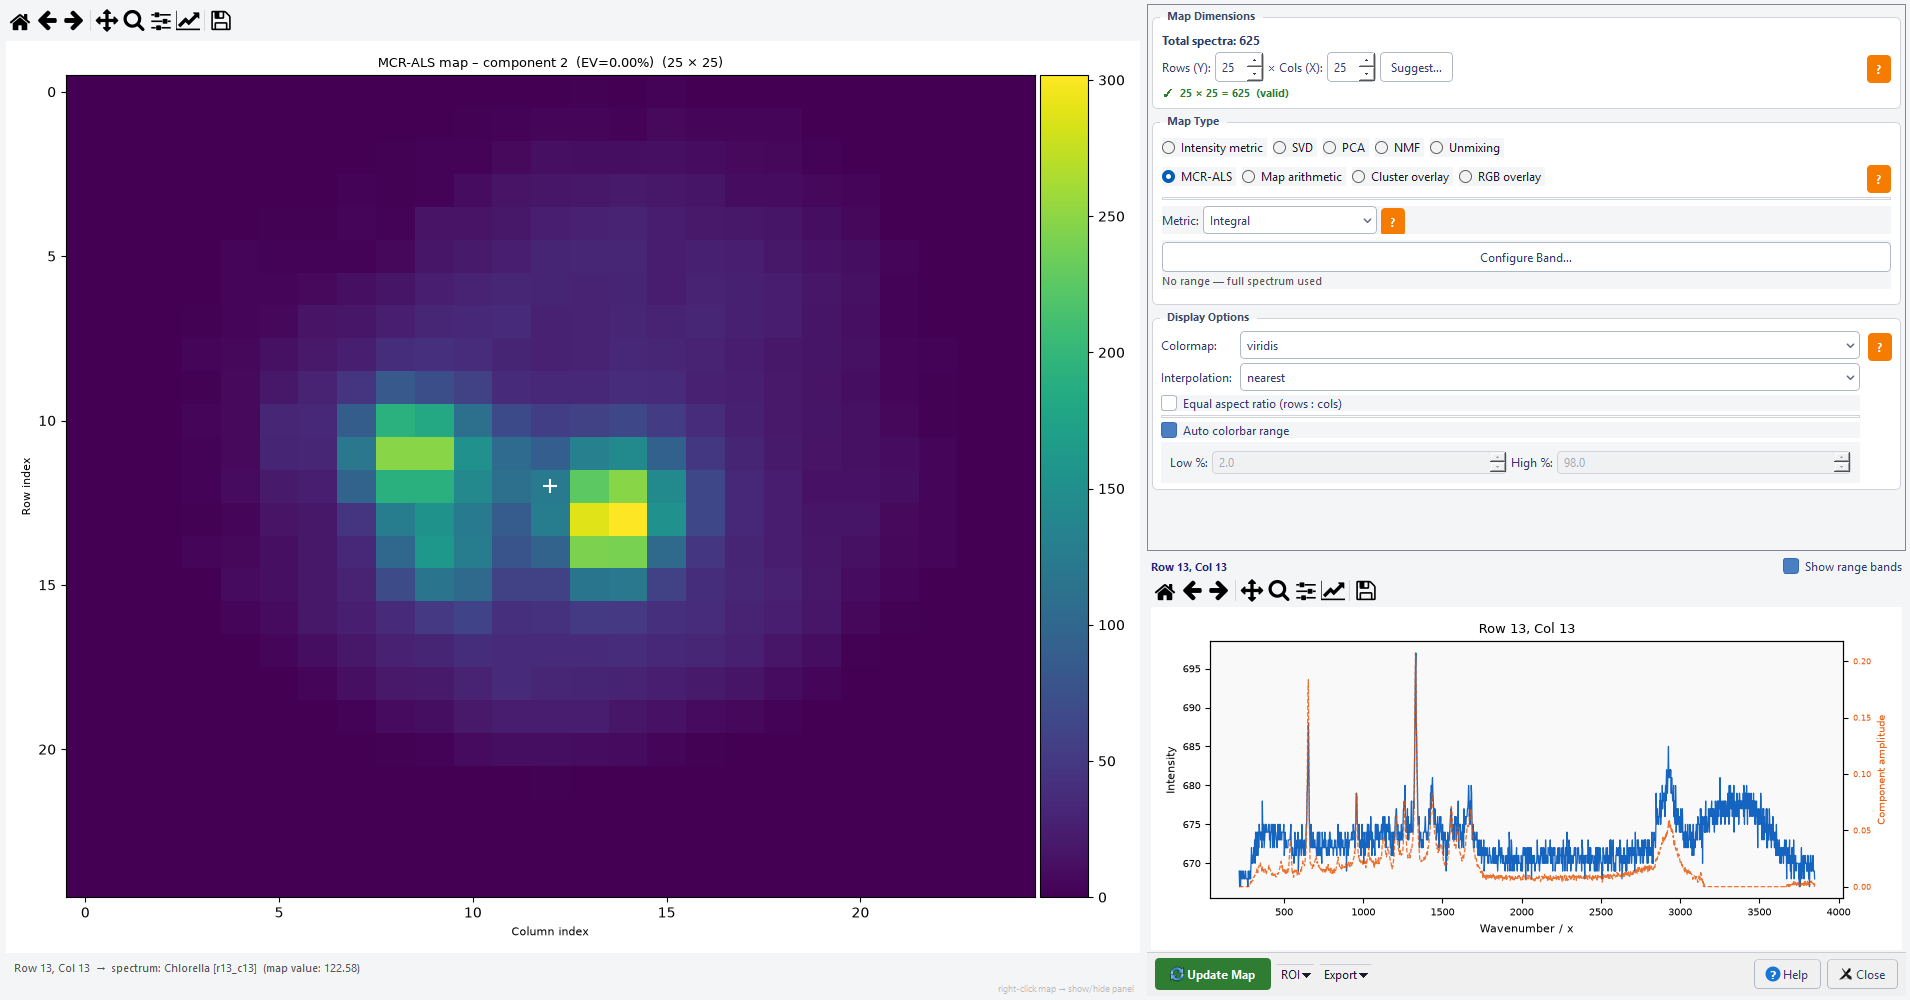
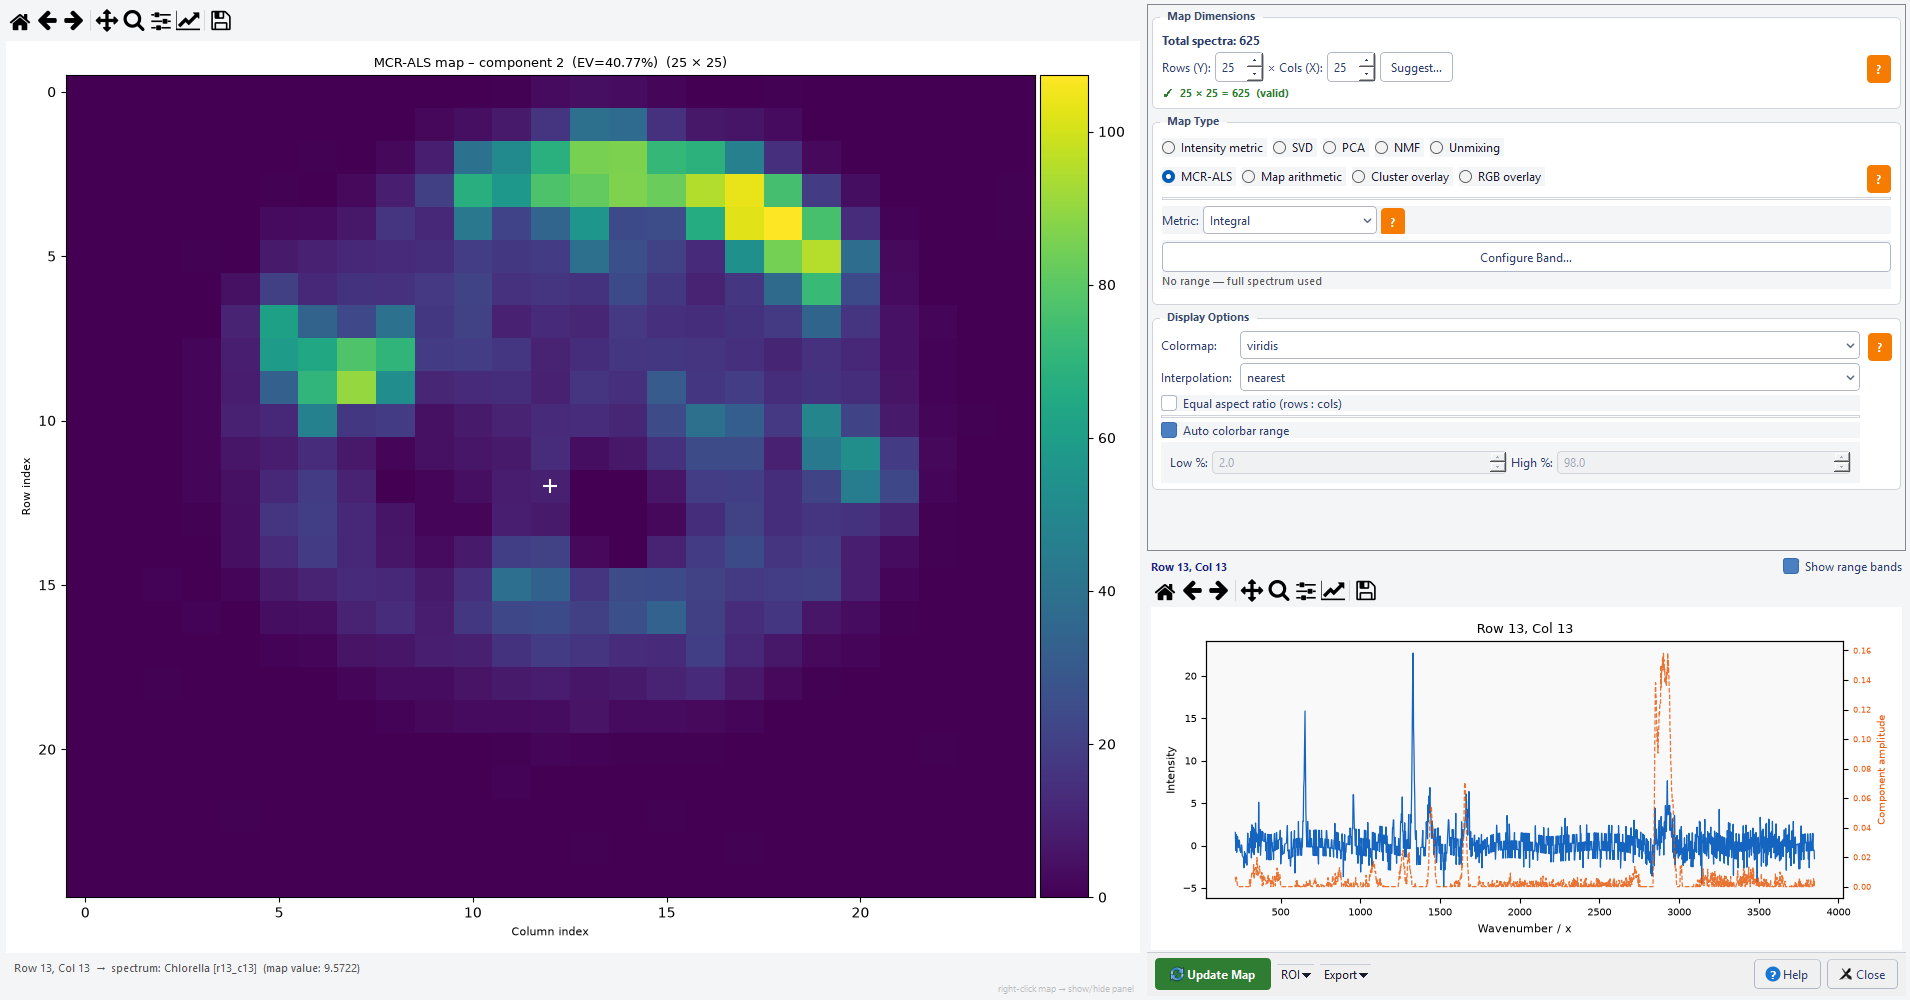
NMF / MCR-ALS: a warning when the spectra still sit on a large background
On raw spectra that sit on a large flat background (e.g. the Chlorella
Raman map: a detector offset of about 670 under bands only about 20 high)
NMF and MCR-ALS spend their components on the background and split it
between them almost arbitrarily, point by point: the component spectra
come out jagged (a comb of vertical lines) and the maps barely show real
structure, while the lack of fit still looks excellent. The help already
said "Baseline-correct first"; now the program says it when it happens:
- 2D map, NMF and MCR-ALS: an orange note under the Map Type panel after
  the fit.
- NMF and MCR-ALS windows: one more entry in the warnings after a run.
The check compares the background level of the spectra with the height of
their bands; spectra around zero (baseline-corrected, or CD) are never
reported.

Help: the 2D map, NMF and MCR-ALS pages say that the program checks this.
The 2D map pictures of NMF, MCR-ALS and the RGB overlay are taken again
from baseline-corrected spectra, so they show real components (e.g. the
C-H band near 2900) instead of the comb.

Where it is in the code:
- src/modules/visualization_analysis/background_check.py (new): the check
  and the warning text
- src/views/dialogs/visualization_analysis/map2d_dialog.py: the note under
  the Map Type panel
- src/views/dialogs/visualization_analysis/nmf_dialog.py,
  src/views/dialogs/visualization_analysis/mcr_als_dialog.py: the warnings
[…]

diff --git a/tests/test_background_check.py b/tests/test_background_check.py
@@ -1,0 +1,115 @@
+"""NMF / MCR-ALS on spectra that still sit on a large shared background
+(e.g. a detector offset of ~670 under bands ~20 high, as in the raw
+Chlorella map) give jagged components; the program now says so: in the
+2D map's status line (orange) and in the warnings of the NMF and MCR-ALS
+windows (background_check.py)."""
+import os
+
+os.environ.setdefault("QT_QPA_PLATFORM", "offscreen")
+
+import numpy as np
+import pytest
+from PyQt5.QtWidgets import QApplication, QMessageBox
+
+app = QApplication.instance() or QApplication([])
+
+
+def _map(offset, n=36):
+    """n spectra: two bands whose amounts vary, on a flat offset."""
+    x = np.linspace(400, 1800, 300)
+    rng = np.random.default_rng(0)
+    out = []
+    for i in range(n):
+        a, b = rng.uniform(0, 20, 2)
+        y = (offset + a * np.exp(-((x - 800) / 15) ** 2) + b * np.exp(-((x - 1400) / 20) ** 2)
+             + rng.normal(0, 0.3, x.size))
+        out.append({'label': f'map : {i + 1:03d}', 'x_scale': x, 'y_scale': y, 'metadata': {}})
+    return out
+
+
+def test_the_measure():
+    from src.modules.visualization_analysis import background_check as bc
+    level, height = bc.shared_background(_map(670))
+    assert 660 < level < 680 and 5 < height < 30
+    text = bc.warning_text(_map(670), 'NMF')
+    assert text and 'large background' in text and 'Baseline-correct' in text and 'NMF' in text
+    assert bc.warning_text(_map(0), 'NMF') is None                 # baseline-corrected
+    signed = _map(0)
+    for s in signed:
+        s['y_scale'] = s['y_scale'] - 10                           # CD-like, around zero
+    assert bc.warning_text(signed, 'MCR-ALS') is None
+    assert bc.shared_background([]) == (None, None)
+
+
+@pytest.fixture
+def quiet(monkeypatch, tmp_path):
+    monkeypatch.setenv('SPECANALYTIXBASE_DATA_DIR', str(tmp_path / 'appdata'))
+    for name in ('information', 'warning', 'critical'):
+        monkeypatch.setattr(QMessageBox, name, staticmethod(lambda *a, **k: QMessageBox.Ok))
+
+
+def _map_dialog(spectra, radio):
+    from src.controllers.visualization_analysis.map2d_controller import Map2DController
+    from src.views.dialogs.visualization_analysis.map2d_dialog import Map2DDialog
+
+    class _Main:
+        view = None
+    d = Map2DDialog(None, Map2DController(_Main()), spectra)
+    d._rows_spin.setValue(6)
+    d._cols_spin.setValue(6)
+    button = getattr(d, radio)
+    button.setChecked(True)
+    d._on_mode_changed(button)
+    d._decomp_n_spin.setValue(2)
+    d._compute_map()
+    return d
+
+
+@pytest.mark.parametrize('radio, name', [('_radio_nmf', 'NMF'), ('_radio_mcr', 'MCR-ALS')])
+def test_the_map_says_so(quiet, radio, name):
+    d = _map_dialog(_map(670), radio)
+    text = d._decomp_status_label.text()
+    assert 'Lack of fit' in text and 'large background' in text and name in text
+    d = _map_dialog(_map(0), radio)
+    assert 'large background' not in d._decomp_status_label.text()
+
+
+def _wait(condition, limit=60):
+    import time
+    end = time.time() + limit
+    while time.time() < end and not condition():
+        app.processEvents()
+        time.sleep(0.02)
+    return condition()
+
+
+@pytest.mark.parametrize('analysis, name', [('NMF', 'NMF'), ('MCR-ALS', 'MCR-ALS')])
+def test_the_nmf_and_mcr_windows_say_so(quiet, monkeypatch, tmp_path, analysis, name):
+    from PyQt5.QtWidgets import QDialog
+    from src.controllers.core.main_controller import MainController
+    from src.views.dialogs.misc import import_dialog
+    spectra = _map(670, n=12)
+    table = np.column_stack([spectra[0]['x_scale']] + [s['y_scale'] for s in spectra])
+    path = tmp_path / 'offset_map.txt'
+    np.savetxt(path, table, header='x ' + ' '.join(f's{i}' for i in range(12)), comments='')
+    monkeypatch.setattr(import_dialog.ImportDialog, 'run', staticmethod(
+        lambda view, settings, file_paths=None: (True, list(file_paths), [{} for _ in file_paths])))
+    mc = MainController()
+    try:
+        mc.import_controller._run_import(clear_first=True, file_paths=[str(path)])
+        mc.spectrum_selector.select_all_items()
+        app.processEvents()
+        seen = []
+
+        def run(dlg, *a):
+            dlg._n_spin.setValue(2)
+            dlg.run_btn.click()
+            _wait(lambda: 'lack of fit' in dlg._status_label.text())
+            seen.append(getattr(dlg, '_warning_text', ''))
+            return QDialog.Rejected
+        monkeypatch.setattr(QDialog, 'exec_', run)
+        mc.run_visualization_analysis(analysis)
+        assert seen and 'large background' in seen[0] and name in seen[0]
+    finally:
+        mc.autosave_controller.shutdown()
+        mc.view.deleteLater()

diff --git a/src/modules/visualization_analysis/background_check.py b/src/modules/visualization_analysis/background_check.py
@@ -1,0 +1,56 @@
+# src/modules/visualization_analysis/background_check.py
+"""Do the spectra still sit on a large shared background? Qt-free.
+
+NMF and MCR-ALS (standalone and in the 2D map) need baseline-corrected
+spectra. On raw spectra that sit on a large flat background - e.g. a
+detector offset of ~670 counts under bands only ~20 high (the Chlorella
+Raman map) - every component has to carry part of that background and
+the components split it between them almost arbitrarily, point by point:
+the component spectra come out jagged ("a comb") and the maps barely show
+real structure, while the lack of fit still looks excellent. The help
+pages say so ("Baseline-correct first"); this check lets the program say
+it too, at the moment it happens.
+
+The measure, per spectrum: the background level = a low percentile of its
+values (2 %), the band height = a high percentile (98 %) minus that level.
+Over all spectra the medians are compared: a background larger than the
+bands themselves (ratio > 1) is reported. Signed data (CD, a background
+around zero) are never reported here - they have their own warning about
+negative values.
+"""
+
+import numpy as np
+
+LOW, HIGH = 2, 98          # percentiles: robust against single spikes
+RATIO = 1.0                # background level / band height above which we warn
+
+
+def shared_background(spectra):
+    """(level, height) - medians over the spectra of the background level
+    and of the band height above it; (None, None) when there is nothing."""
+    levels, heights = [], []
+    for s in spectra:
+        y = np.asarray(s.get('y_scale', ()), dtype=float)
+        y = y[np.isfinite(y)]
+        if y.size < 3:
+            continue
+        lo, hi = np.percentile(y, [LOW, HIGH])
+        levels.append(lo)
+        heights.append(hi - lo)
+    if not levels:
+        return None, None
+    return float(np.median(levels)), float(np.median(heights))
+
+
+def warning_text(spectra, method):
+    """The warning for `method` ('NMF' or 'MCR-ALS'), or None when the
+    background is not large compared with the bands."""
+    level, height = shared_background(spectra)
+    if level is None or level <= 0 or height <= 0 or level / height <= RATIO:
+        return None
+    return (f"The spectra sit on a large background (about {level:.3g}, while their bands are "
+            f"only about {height:.3g} high). {method} then spends its components on the "
+            f"background and splits it between them, so the component spectra come out jagged "
+            f"and the maps or amounts barely show real differences - even when the lack of fit "
+            f"looks excellent. Baseline-correct the spectra first (Spectra Processing › "
+            f"Automated Baseline), then run {method} again.")

diff --git a/src/help/map2d_help.py b/src/help/map2d_help.py
@@ -665,16 +665,19 @@ missing baseline correction, not confirmation of a good fit.
 <strong>Apply Baseline correction (even an imperfect one) to your spectra
 before switching to NMF or MCR-ALS map mode</strong> &mdash; see the
 standalone NMF / MCR-ALS help pages' "Read this first" sections for why.
+The program checks this for you: when the spectra still sit on a large
+background (higher than their bands), the line under the Map Type panel
+adds an orange note after the fit.
 </div>
 
 <div class="screenshot">
     <img src="$TYPE_NMF" width="$TYPE_NMF_W" height="$TYPE_NMF_H" alt="Map Type panel with NMF selected" />
-    <p class="caption">Map Type panel in NMF mode: Components-to-fit spinner, Browse-component selector, and Configure NMF range&hellip; button.</p>
+    <p class="caption">Map Type panel in NMF mode: Components-to-fit spinner, Browse-component selector, and Configure NMF range&hellip; button. The map&rsquo;s spectra were baseline-corrected first, as advised above.</p>
 </div>
 
 <div class="screenshot">
     <img src="$TYPE_MCR" width="$TYPE_MCR_W" height="$TYPE_MCR_H" alt="Map Type panel with MCR-ALS selected" />
-    <p class="caption">Map Type panel in MCR-ALS mode: Components-to-fit spinner, Browse-component selector, and Configure MCR-ALS range&hellip; button.</p>
+    <p class="caption">Map Type panel in MCR-ALS mode: Components-to-fit spinner, Browse-component selector, and Configure MCR-ALS range&hellip; button. The map&rsquo;s spectra were baseline-corrected first, as advised above.</p>
 </div>
 
 <p>Unlike SVD (which yields every component from a single fit), NMF and

diff --git a/src/views/dialogs/visualization_analysis/mcr_als_dialog.py b/src/views/dialogs/visualization_analysis/mcr_als_dialog.py
@@ -28,6 +28,7 @@ import matplotlib.patheffects as mpl_path_effects
 
 from src.modules.utils.app_logger import get_logger
 from src.modules.utils.label_shortening import compute_distinguishing_labels, make_shorten_names_checkbox
+from src.modules.visualization_analysis import background_check
 from src.modules.visualization_analysis import ground_truth_comparison as gtc
 from src.views.dialogs.misc.ground_truth_picker_dialog import pick_ground_truth_dataset
 logger = get_logger(__name__)
@@ -1452,6 +1453,9 @@ class MCRALSDialog(QDialog):
                     'relevant constraint, or applying baseline correction first.')
             if self._mgr.x_range_mismatch_warning:
                 warnings.append(self._mgr.x_range_mismatch_warning)
+            background = background_check.warning_text(self._fit_spectra(), 'MCR-ALS')
+            if background:
+                warnings.append(background)
             if not self._mgr.converged:
                 warnings.append(
                     f'Did not converge within {self._iter_spin.value()} iterations '
@@ -1773,6 +1777,9 @@ class MCRALSDialog(QDialog):
                     'relevant constraint, or applying baseline correction first.')
             if self._mgr.x_range_mismatch_warning:
                 warnings.append(self._mgr.x_range_mismatch_warning)
+            background = background_check.warning_text(self._fit_spectra(), 'MCR-ALS')
+            if background:
+                warnings.append(background)
             if warnings:
                 self._set_warning_text('\n\n⚠  '.join(warnings))
             else:

diff --git a/src/views/dialogs/visualization_analysis/nmf_dialog.py b/src/views/dialogs/visualization_analysis/nmf_dialog.py
@@ -30,6 +30,7 @@ import matplotlib.patheffects as mpl_path_effects
 
 from src.modules.utils.app_logger import get_logger
 from src.modules.utils.label_shortening import compute_distinguishing_labels, make_shorten_names_checkbox
+from src.modules.visualization_analysis import background_check
 from src.modules.visualization_analysis import ground_truth_comparison as gtc
 from src.views.dialogs.misc.ground_truth_picker_dialog import pick_ground_truth_dataset
 logger = get_logger(__name__)
@@ -1337,6 +1338,9 @@ class NMFDialog(QDialog):
                     'Apply baseline correction first, or use PCA/SVD instead.')
             if self._mgr.x_range_mismatch_warning:
                 warnings.append(self._mgr.x_range_mismatch_warning)
+            background = background_check.warning_text(self._fit_spectra(), 'NMF')
+            if background:
+                warnings.append(background)
             if warnings:
                 self._set_warning_text('\n\n⚠  '.join(warnings))
             else:
@@ -1619,6 +1623,9 @@ class NMFDialog(QDialog):
                     'Apply baseline correction first, or use PCA/SVD instead.')
             if self._mgr.x_range_mismatch_warning:
                 warnings.append(self._mgr.x_range_mismatch_warning)
+            background = background_check.warning_text(self._fit_spectra(), 'NMF')
+            if background:
+                warnings.append(background)
             if warnings:
                 self._set_warning_text('\n\n⚠  '.join(warnings))
             else:

diff --git a/src/views/dialogs/visualization_analysis/map2d_dialog.py b/src/views/dialogs/visualization_analysis/map2d_dialog.py
@@ -4538,7 +4538,17 @@ class Map2DDialog(QDialog):
                              f"consensus among {pool_size} near-best)")
             else:
                 parts.append(f"best of {n_runs} runs")
-        self._decomp_status_label.setText("  |  ".join(parts))
+        text = "  |  ".join(parts)
+        # Raw spectra on a large shared background (e.g. a detector offset)
+        # make NMF / MCR-ALS components jagged - say so right here, in
+        # orange, instead of only in the help (background_check.py).
+        from src.modules.visualization_analysis import background_check
+        warning = background_check.warning_text(
+            self.spectra, 'NMF' if kind == 'nmf' else 'MCR-ALS')
+        if warning:
+            text = (text + "\n" if text else "") + "\u26a0 " + warning
+            self._decomp_status_label.setStyleSheet("font-size:8pt; color:#E65100;")
+        self._decomp_status_label.setText(text)
 
     # ── NMF/MCR-ALS: Bootstrap Uncertainty ──────────────────────────────
 

diff --git a/src/help/mcr_als_help.py b/src/help/mcr_als_help.py
@@ -178,6 +178,9 @@ def get_mcr_als_help_content():
         interpret. <strong>Run Baseline correction (even an imperfect one)
         before MCR-ALS.</strong> Recommended pipeline: Data range
         &rarr; Baseline correction &rarr; Normalisation &rarr; MCR-ALS.
+        The program checks this for you: when the spectra still sit on a
+        large background (higher than their bands), the run ends with a
+        warning saying so.
     </div>
 
     <div class="warn">

diff --git a/src/help/nmf_help.py b/src/help/nmf_help.py
@@ -176,6 +176,9 @@ def get_nmf_help_content():
         interpret. <strong>Run Baseline correction (even an imperfect one)
         before NMF.</strong> Recommended pipeline: Data range
         &rarr; Baseline correction &rarr; Normalisation &rarr; NMF.
+        The program checks this for you: when the spectra still sit on a
+        large background (higher than their bands), the run ends with a
+        warning saying so.
     </div>
 
     <div class="warn">
